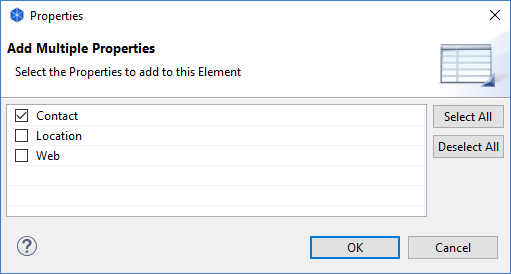
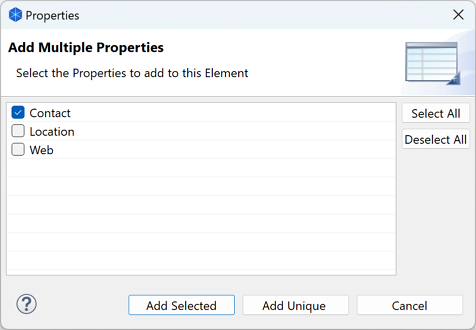
[Properties] Add option to add only unique Properties in Multiple Add dialog

diff --git a/com.archimatetool.help/help/Text/properties_user_properties.html b/com.archimatetool.help/help/Text/properties_user_properties.html
@@ -84,7 +84,7 @@
         <img src="../Images/properties_user_dialog1.png"/><br/>
         <br/>
       </li>
-      <li>Press OK and then edit the new Values in the Properties table</li>
+      <li>Press "Add Selected" if you want to add all selected Properties regardless of whether they already exist in the target. Press "Add Unique" if you want to add all selected Properties that don't already exist in the target.</li>
     </ol>
 
     <p><strong>To Manage and View User Properties Globally:</strong></p>

diff --git a/com.archimatetool.editor/src/com/archimatetool/editor/propertysections/UserPropertiesSection.java b/com.archimatetool.editor/src/com/archimatetool/editor/propertysections/UserPropertiesSection.java
@@ -1100,7 +1100,7 @@ public class UserPropertiesSection extends AbstractECorePropertySection {
         public void run() {
             if(isAlive(getFirstSelectedElement())) {
                 MultipleAddDialog dialog = new MultipleAddDialog(fPage.getSite().getShell(), getAllUniquePropertyKeysForModel(MAX_ITEMS_ALL));
-                if(dialog.open() == Window.OK) {
+                if(dialog.open() != Window.CANCEL) {
                     List<String> newKeys = dialog.getSelectedKeys();
                     if(newKeys == null || newKeys.isEmpty()) {
                         return;
@@ -1109,11 +1109,16 @@ public class UserPropertiesSection extends AbstractECorePropertySection {
                     CompoundCommand cmd = isMultiSelection() ? new CompoundCommand(Messages.UserPropertiesSection_20) : 
                                                                new EObjectNonNotifyingCompoundCommand(getFirstSelectedElement(), Messages.UserPropertiesSection_20);
                     
+                    // Add properties that are not already present
+                    boolean addUnique = dialog.getReturnCode() == IDialogConstants.CLIENT_ID;
+                    
                     for(IProperties propertiesElement : fPropertiesElements) {
                         if(isAlive(propertiesElement)) {
                             for(String key : newKeys) {
-                                IProperty property = IArchimateFactory.eINSTANCE.createProperty(key, ""); //$NON-NLS-1$
-                                cmd.add(new NewPropertyCommand(propertiesElement.getProperties(), property, -1));
+                                if(!(addUnique && hasPropertyKey(propertiesElement, key))) {
+                                    IProperty property = IArchimateFactory.eINSTANCE.createProperty(key, ""); //$NON-NLS-1$
+                                    cmd.add(new NewPropertyCommand(propertiesElement.getProperties(), property, -1));
+                                }
                             }
                         }
                     }
@@ -1121,6 +1126,18 @@ public class UserPropertiesSection extends AbstractECorePropertySection {
                     executeCommand(cmd.unwrap());
                 }
             }
+        }
+        
+        /**
+         * @return true if propertiesElement already has a property by key
+         */
+        private boolean hasPropertyKey(IProperties propertiesElement, String key) {
+            for(IProperty property : propertiesElement.getProperties()) {
+                if(key.equals(property.getKey())) {
+                    return true;
+                }
+            }
+            return false;
         }
     }
 
@@ -1421,7 +1438,7 @@ public class UserPropertiesSection extends AbstractECorePropertySection {
             // Column
             TableViewerColumn columnKey = new TableViewerColumn(tableViewer, SWT.NONE, 0);
             tableLayout.setColumnData(columnKey.getColumn(), new ColumnWeightData(100, true));
-
+            
             // Content Provider
             tableViewer.setContentProvider(new IStructuredContentProvider() {
                 @Override
@@ -1470,17 +1487,25 @@ public class UserPropertiesSection extends AbstractECorePropertySection {
                 tableViewer.setCheckedElements(new Object[] {});
             }));
         }
-
+        
         @Override
-        protected void okPressed() {
+        protected void createButtonsForButtonBar(Composite parent) {
+            createButton(parent, IDialogConstants.OK_ID, Messages.UserPropertiesSection_6, true);
+            createButton(parent, IDialogConstants.CLIENT_ID, Messages.UserPropertiesSection_23, false);
+            createButton(parent, IDialogConstants.CANCEL_ID, IDialogConstants.CANCEL_LABEL, false);
+        }
+        
+        @Override
+        protected void buttonPressed(int buttonId) {
             selectedKeys = new ArrayList<>();
             for(Object o : tableViewer.getCheckedElements()) {
                 selectedKeys.add((String)o);
             }
-            
-            super.okPressed();
-        }
 
+            setReturnCode(buttonId);
+            close();
+        }
+        
         List<String> getSelectedKeys() {
             return selectedKeys;
         }

diff --git a/com.archimatetool.editor/src/com/archimatetool/editor/propertysections/Messages.java b/com.archimatetool.editor/src/com/archimatetool/editor/propertysections/Messages.java
@@ -355,11 +355,15 @@ public class Messages extends NLS {
 
     public static String UserPropertiesSection_22;
 
+    public static String UserPropertiesSection_23;
+
     public static String UserPropertiesSection_3;
 
     public static String UserPropertiesSection_4;
 
     public static String UserPropertiesSection_5;
+
+    public static String UserPropertiesSection_6;
 
     public static String UserPropertiesSection_7;
 
